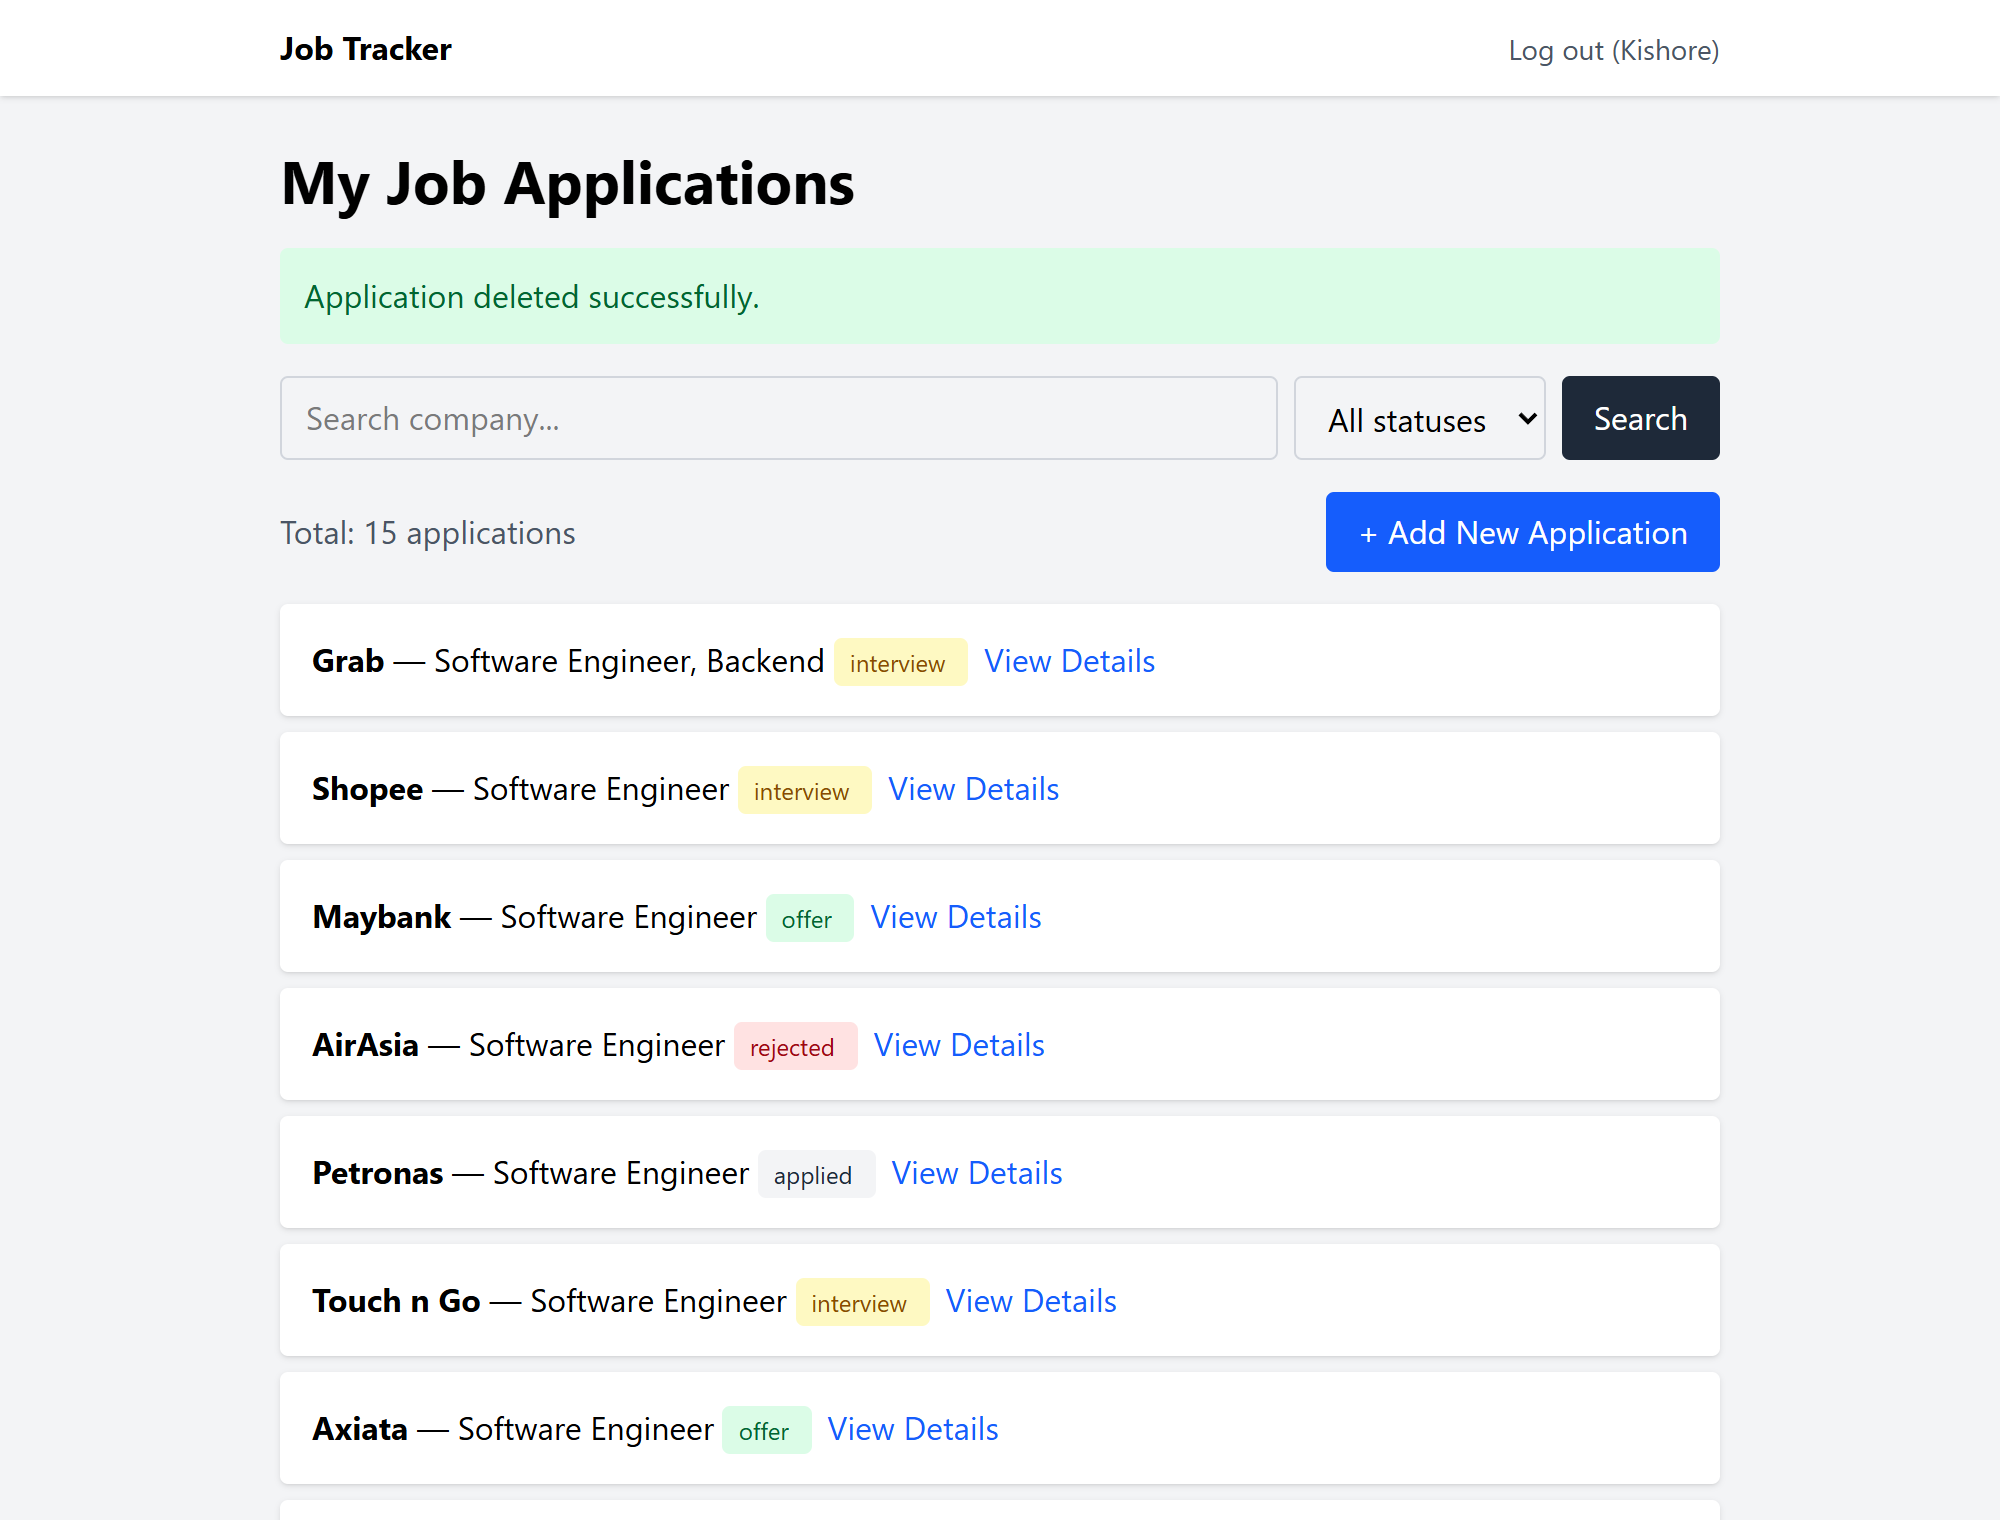
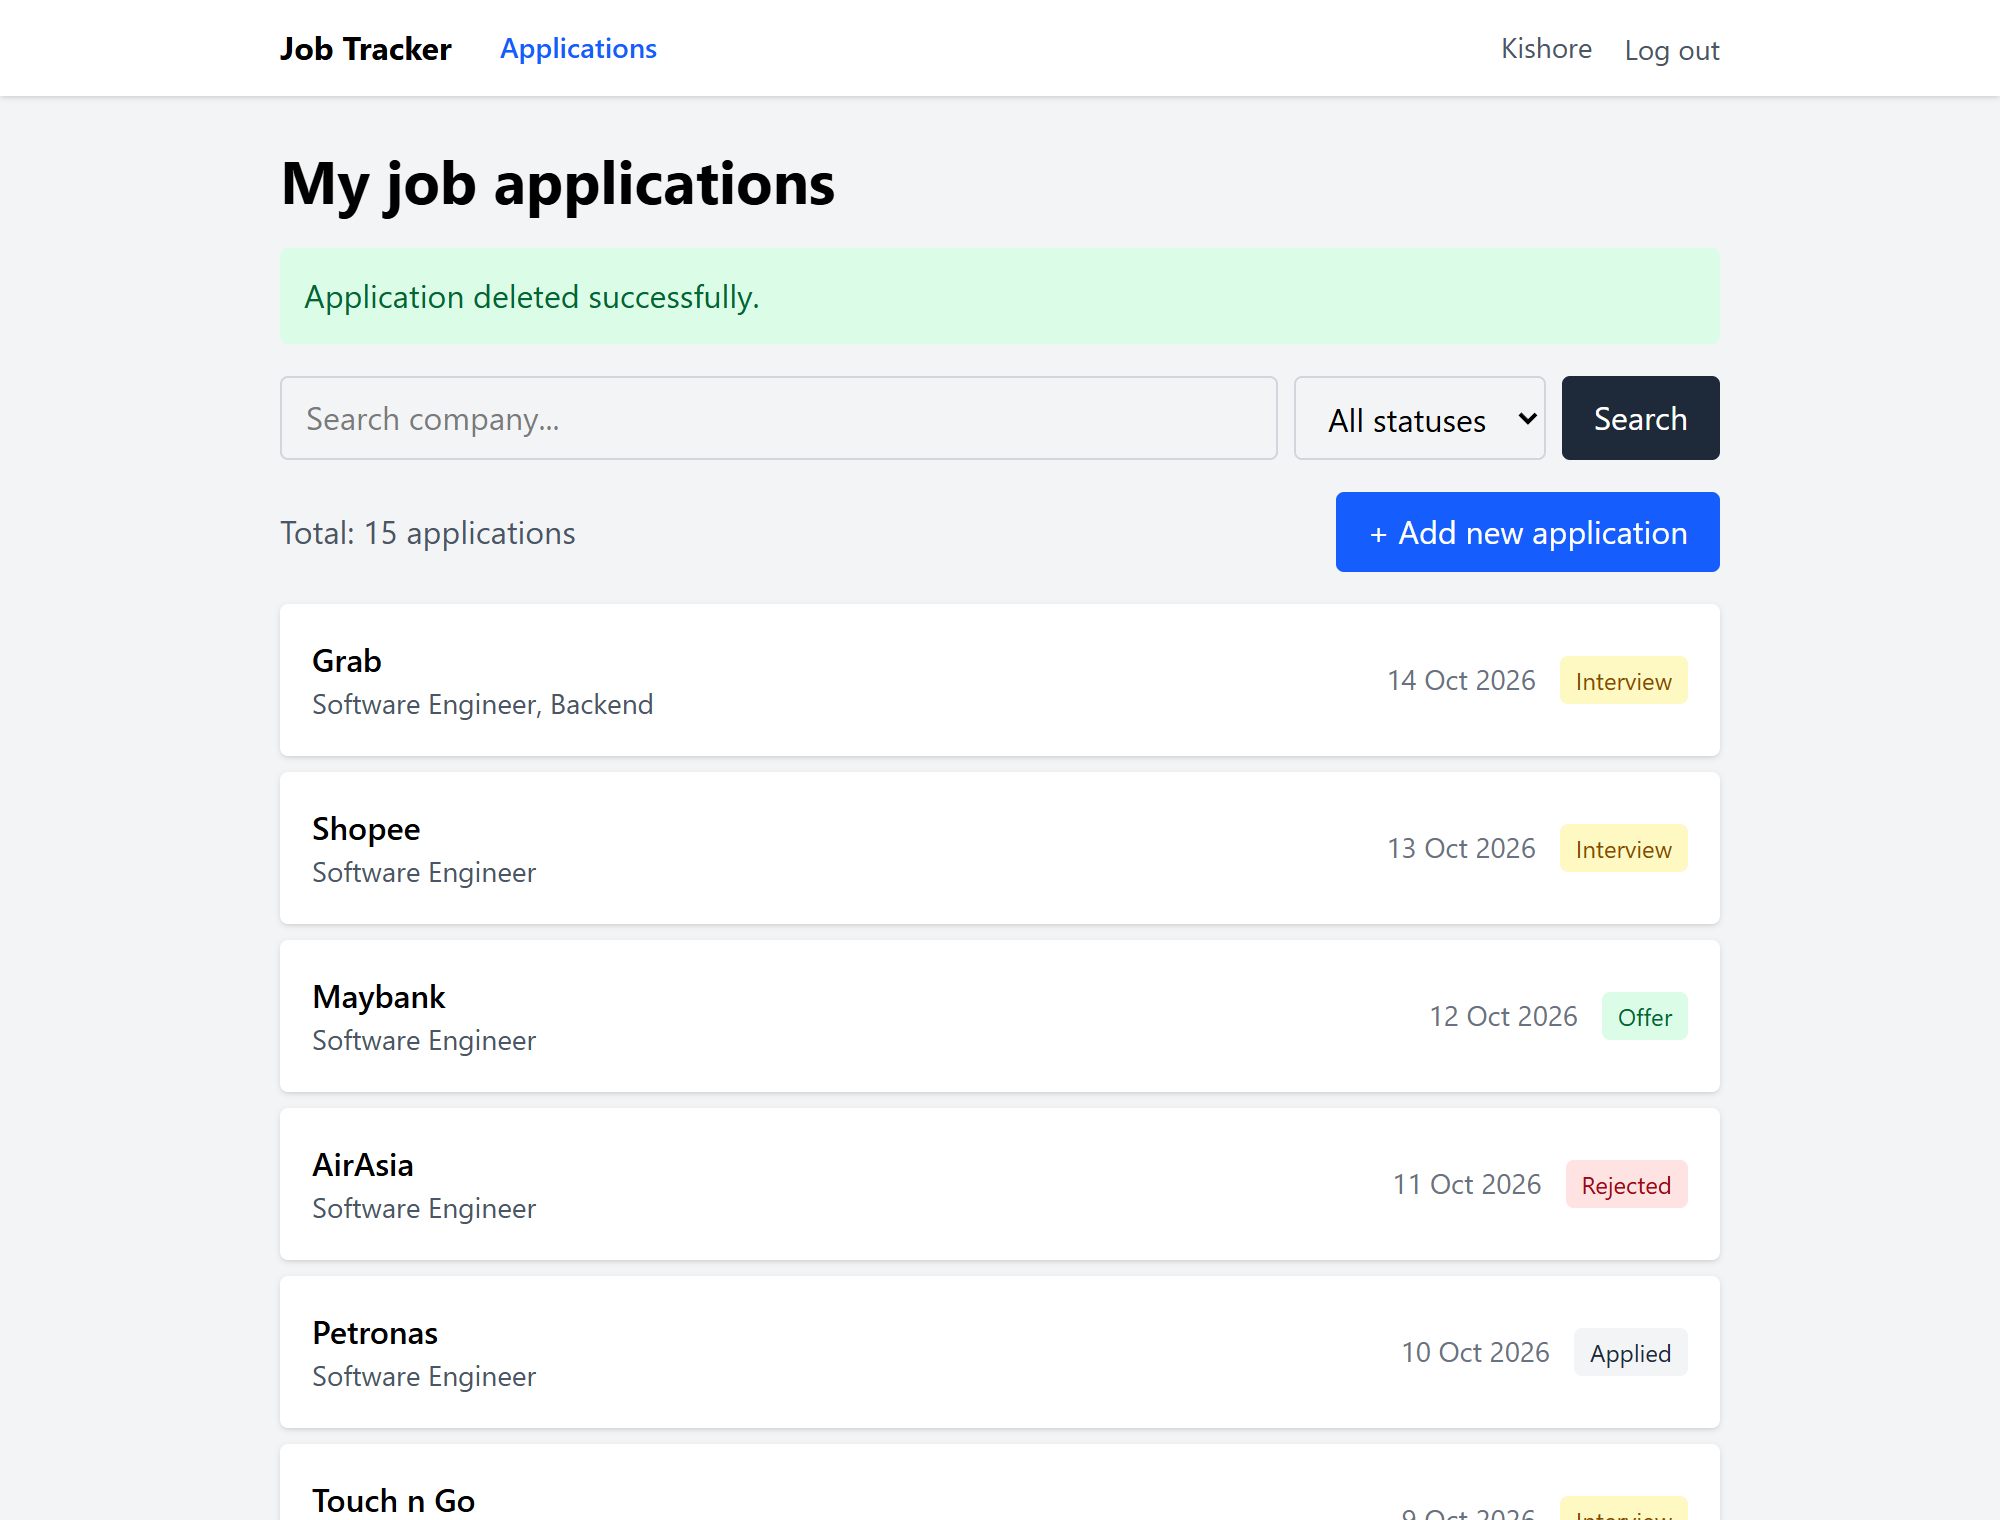
style: add active nav link and separate user name from logout; refresh screenshots

diff --git a/resources/views/layouts/app.blade.php b/resources/views/layouts/app.blade.php
@@ -8,13 +8,26 @@
     @auth
         <nav class="bg-white shadow">
             <div class="max-w-3xl mx-auto px-6 py-3 flex justify-between items-center">
-                <a href="{{ route('applications.index') }}" class="font-bold">Job Tracker</a>
-                <form action="{{ route('logout') }}" method="POST">
-                    @csrf
-                    <button type="submit" class="text-sm text-gray-600 hover:underline">
-                        Log out ({{ auth()->user()->name }})
-                    </button>
-                </form>
+
+                <div class="flex items-center gap-6">
+                    <a href="{{ route('applications.index') }}" class="font-bold">Job Tracker</a>
+
+                    <a href="{{ route('applications.index') }}"
+                        class="text-sm {{ request()->routeIs('applications.*') ? 'text-blue-600 font-medium' : 'text-gray-600 hover:text-gray-900' }}">
+                            Applications
+                    </a>
+                </div>
+
+                <div class="flex items-center gap-4">
+                    <span class="text-sm text-gray-600">{{ auth()->user()->name }}</span>
+
+                    <form action="{{ route('logout')}}" method="POST">
+                        @csrf
+                        <button type="submit" class="text-sm text-gray-600 hover:text-gray-900 hover:underline">
+                            Log out
+                        </button>
+                    </form>
+                </div>
             </div>
         </nav>
     @endauth
